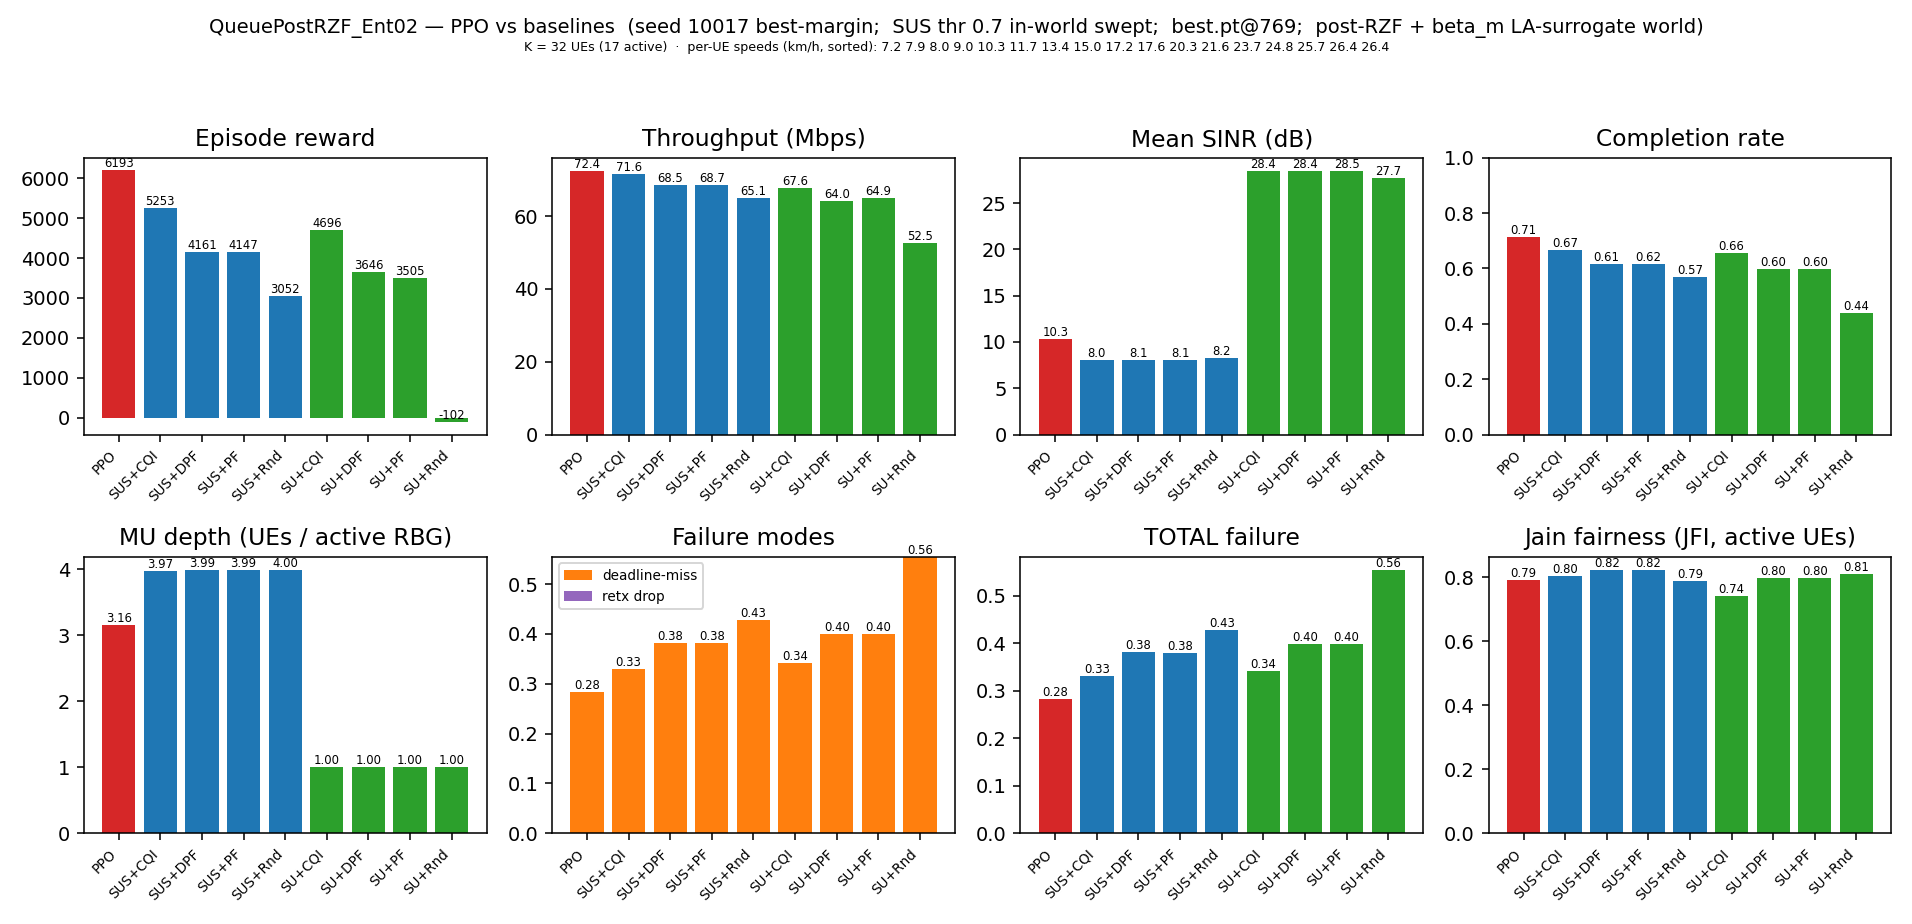
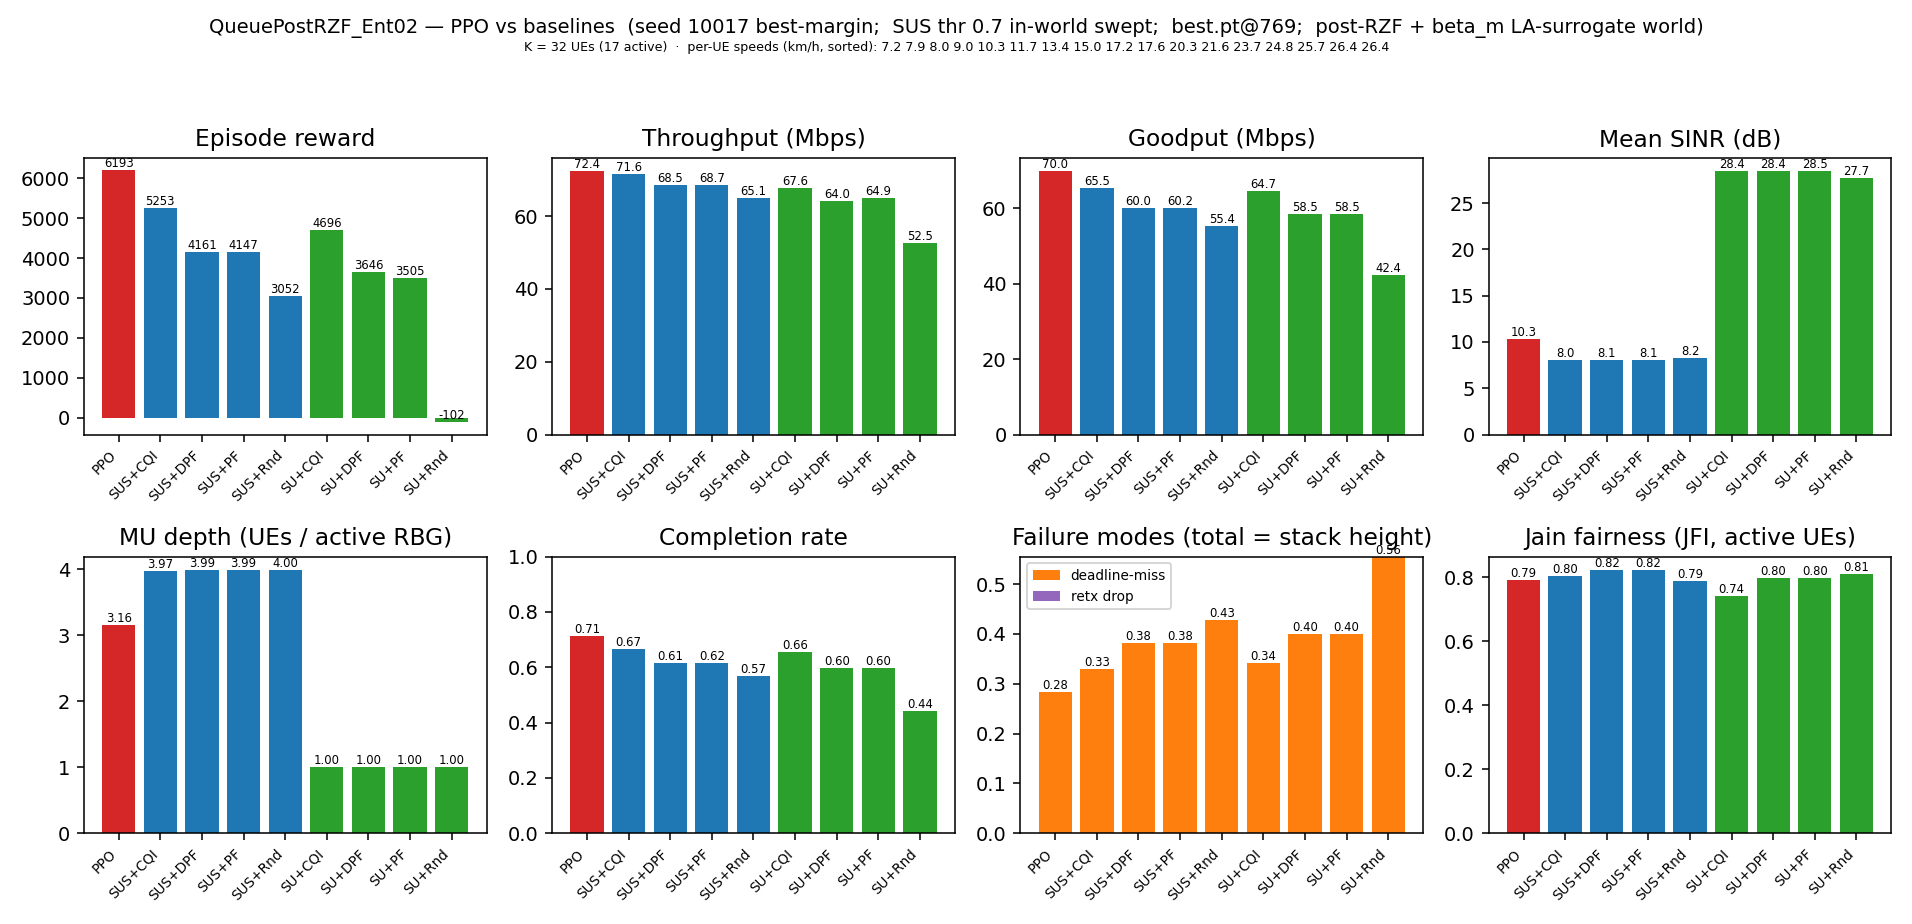
figures: Ent02 panel set = +goodput, -TOTAL failure (user layout 2026-07-20)
Panel order: reward, throughput, goodput, SINR / MU depth, completion,
failure modes, JFI. Failure-modes title now says total = stack height.
Re-evaluated 20 seeds to collect goodput (not in the old CSV); numbers
unchanged (PPO 5422 vs SUS+CQI 4879 = +11.1%).

diff --git a/Run4/_analysis/scripts/queue_ent02_final_figure.py b/Run4/_analysis/scripts/queue_ent02_final_figure.py
@@ -54,8 +54,9 @@ scheds = [("PPO", PPOScheduler(ac, deterministic=True))] + \
           if SHORT.get(s.name, s.name) in ORDER]
 assert sorted(n for n, _ in scheds) == sorted(ORDER)
 
-KEYS = ["reward", "throughput_mbps", "mean_sinr_db", "completion_rate",
-        "deadline_miss_rate", "retx_drop_rate", "mu_depth", "jain"]
+KEYS = ["reward", "throughput_mbps", "goodput_mbps", "mean_sinr_db",
+        "completion_rate", "deadline_miss_rate", "retx_drop_rate",
+        "mu_depth", "jain"]
 data, ctx = {}, {}
 for seed in SEEDS:
     for name, sch in scheds:
@@ -93,26 +94,28 @@ def bars(ax, title, vals, fmt, ymax=None):
         ax.text(r.get_x() + r.get_width() / 2, r.get_height(), fmt.format(v),
                 ha="center", va="bottom", fontsize=6)
 
+# panel order (user 2026-07-20): reward, throughput, goodput, SINR,
+# MU depth, completion, failure modes, JFI. TOTAL failure dropped --
+# the stacked failure-modes bar already shows the total.
 fig, axes = plt.subplots(2, 4, figsize=(13.66, 6.6))
 g = lambda n, k: data[(show, n)][k]
 bars(axes[0, 0], "Episode reward", [g(n, "reward") for n in ORDER], "{:.0f}")
 bars(axes[0, 1], "Throughput (Mbps)", [g(n, "throughput_mbps") for n in ORDER], "{:.1f}")
-bars(axes[0, 2], "Mean SINR (dB)", [g(n, "mean_sinr_db") for n in ORDER], "{:.1f}")
-bars(axes[0, 3], "Completion rate", [g(n, "completion_rate") for n in ORDER], "{:.2f}", 1.0)
+bars(axes[0, 2], "Goodput (Mbps)", [g(n, "goodput_mbps") for n in ORDER], "{:.1f}")
+bars(axes[0, 3], "Mean SINR (dB)", [g(n, "mean_sinr_db") for n in ORDER], "{:.1f}")
 bars(axes[1, 0], "MU depth (UEs / active RBG)", [g(n, "mu_depth") for n in ORDER], "{:.2f}")
-ax = axes[1, 1]
+bars(axes[1, 1], "Completion rate", [g(n, "completion_rate") for n in ORDER], "{:.2f}", 1.0)
+ax = axes[1, 2]
 miss = [g(n, "deadline_miss_rate") for n in ORDER]
 retx = [g(n, "retx_drop_rate") for n in ORDER]
 ax.bar(range(len(ORDER)), miss, color="tab:orange", label="deadline-miss")
 ax.bar(range(len(ORDER)), retx, bottom=miss, color="tab:purple", label="retx drop")
 for i, (a, b) in enumerate(zip(miss, retx)):
     ax.text(i, a + b, f"{a + b:.2f}", ha="center", va="bottom", fontsize=6)
-ax.set_title("Failure modes")
+ax.set_title("Failure modes (total = stack height)")
 ax.set_xticks(range(len(ORDER)))
 ax.set_xticklabels(ORDER, rotation=45, ha="right", fontsize=7)
 ax.legend(fontsize=7)
-bars(axes[1, 2], "TOTAL failure",
-     [g(n, "deadline_miss_rate") + g(n, "retx_drop_rate") for n in ORDER], "{:.2f}")
 bars(axes[1, 3], "Jain fairness (JFI, active UEs)", [g(n, "jain") for n in ORDER], "{:.2f}")
 
 fig.suptitle(f"QueuePostRZF_Ent02 — PPO vs baselines  (seed {show} best-margin;  "
